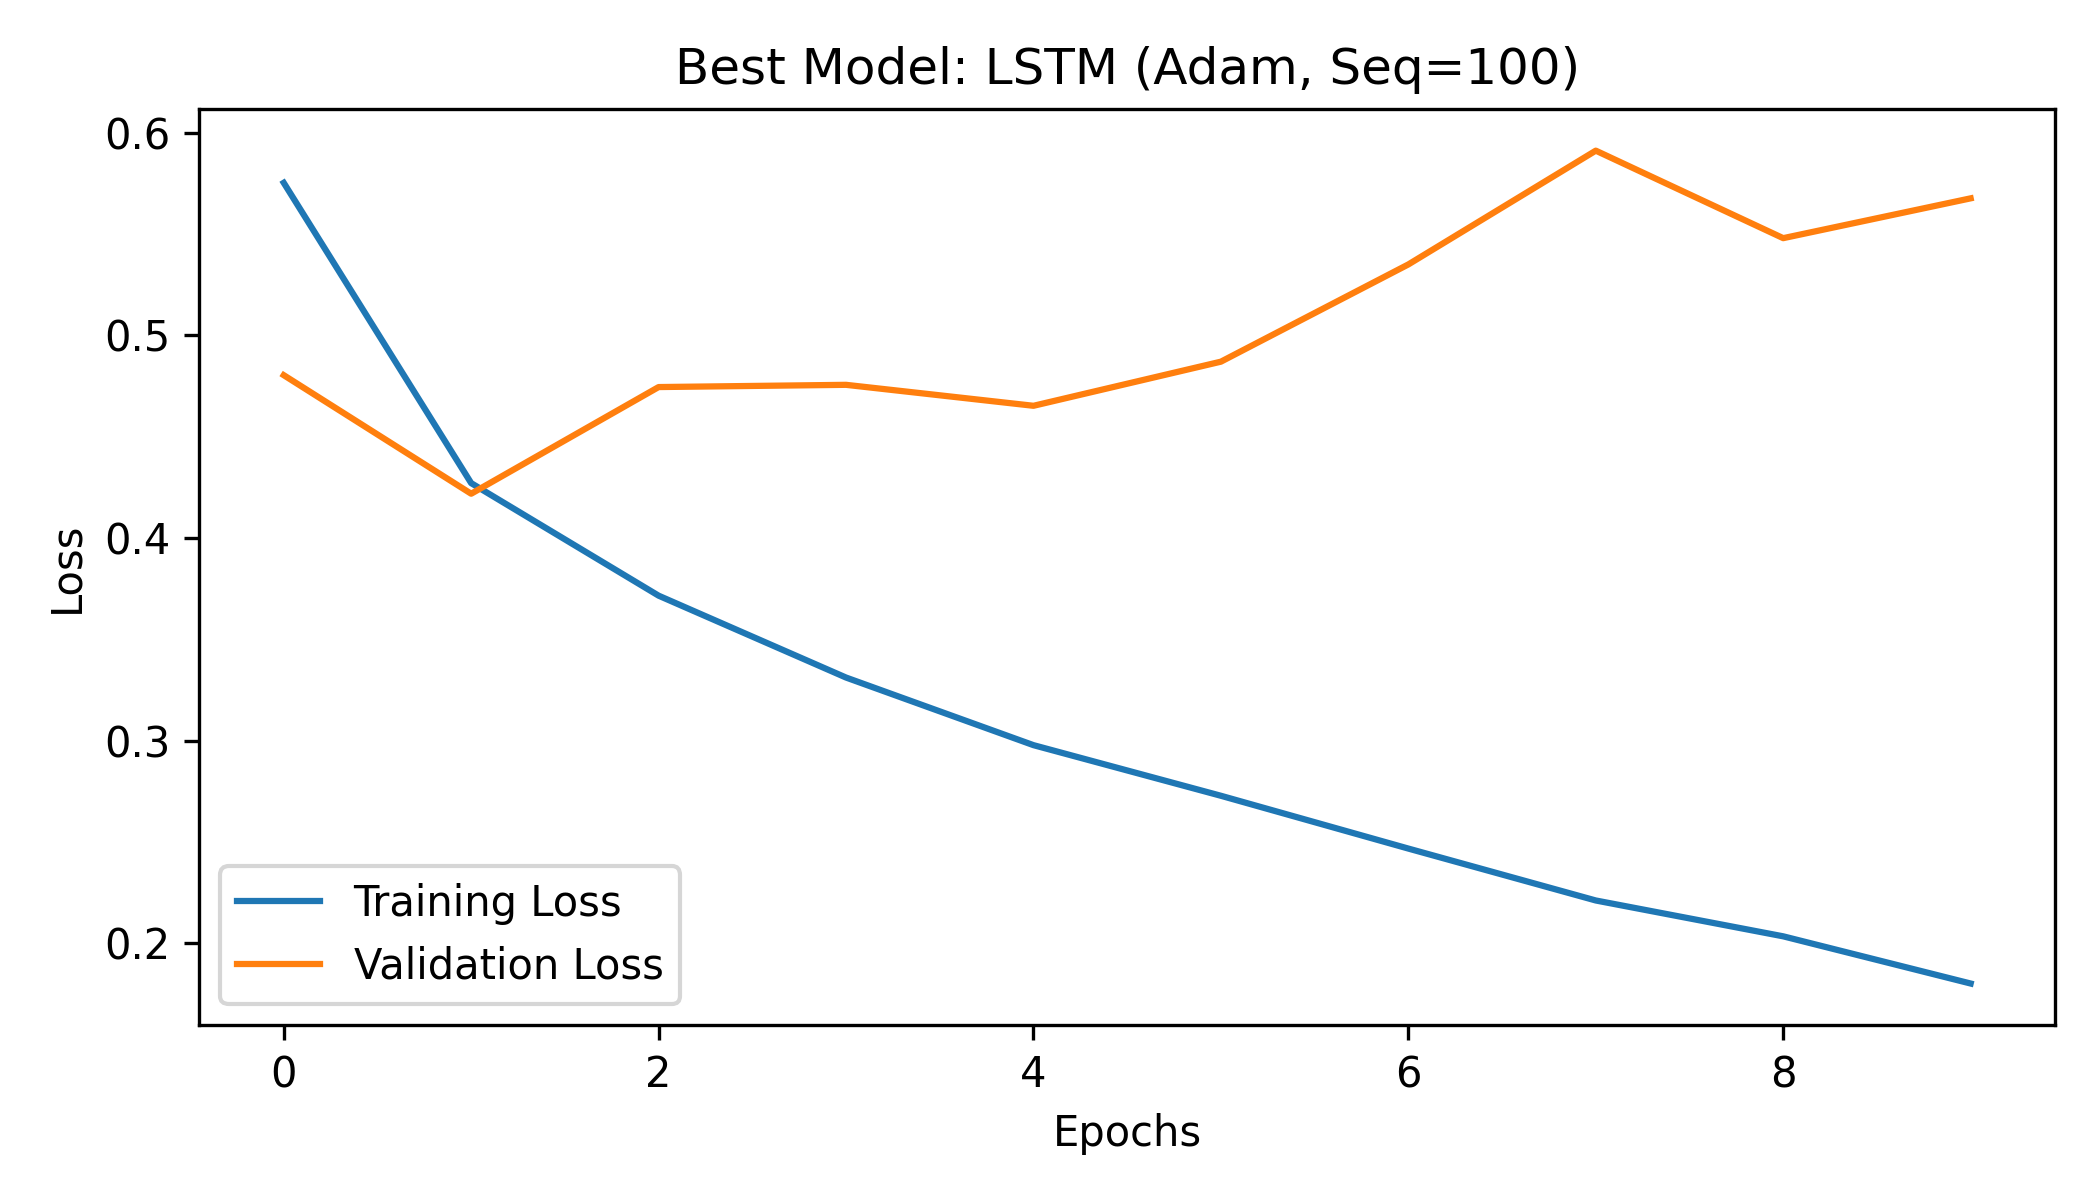
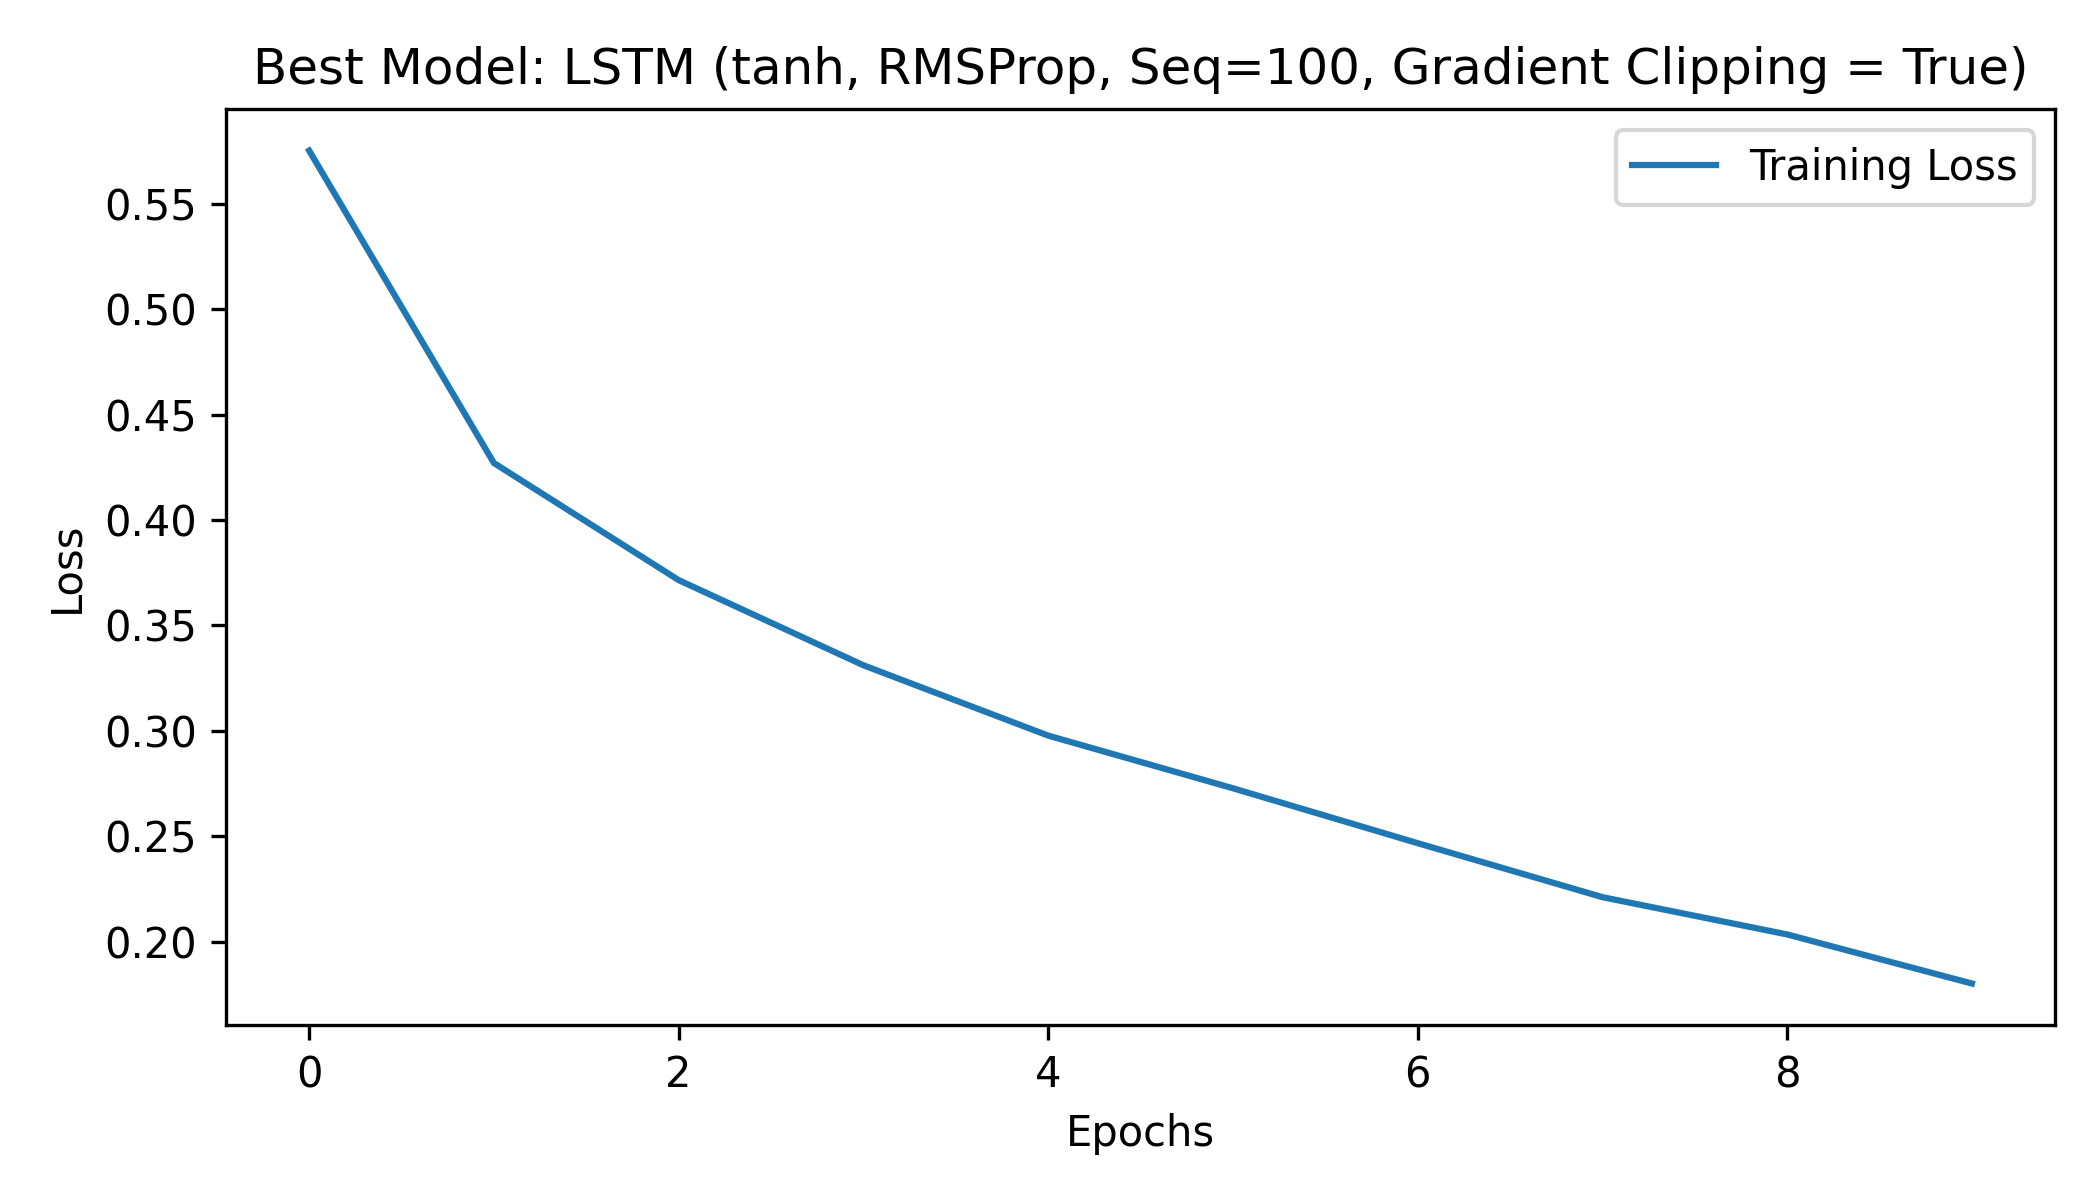
Evaluated models along with images

diff --git a/src/evaluate.py b/src/evaluate.py
@@ -31,8 +31,7 @@ worst_loss_file = "/Users/nsumesh/Documents/GitHub/641HW3/src/results/worst_mode
 best_loss = pd.read_csv(best_loss_file)
 plt.figure(figsize=(7, 4))
 plt.plot(best_loss["loss"], label="Training Loss")
-plt.plot(best_loss["val_loss"], label="Validation Loss")
-plt.title("Best Model: LSTM (Adam, Seq=100)")
+plt.title("Best Model: LSTM (tanh, RMSProp, Seq=100, Gradient Clipping = True)")
 plt.xlabel("Epochs")
 plt.ylabel("Loss")
 plt.legend()
@@ -43,8 +42,7 @@ plt.show()
 worst_loss = pd.read_csv(worst_loss_file)
 plt.figure(figsize=(7, 4))
 plt.plot(worst_loss["loss"], label="Training Loss")
-plt.plot(worst_loss["val_loss"], label="Validation Loss")
-plt.title("Worst Model: RNN (SGD, Seq=25)")
+plt.title("Worst Model: BiLSTM (tanh, SGD, Seq=50, Gradient Clipping = True)")
 plt.xlabel("Epochs")
 plt.ylabel("Loss")
 plt.legend()
